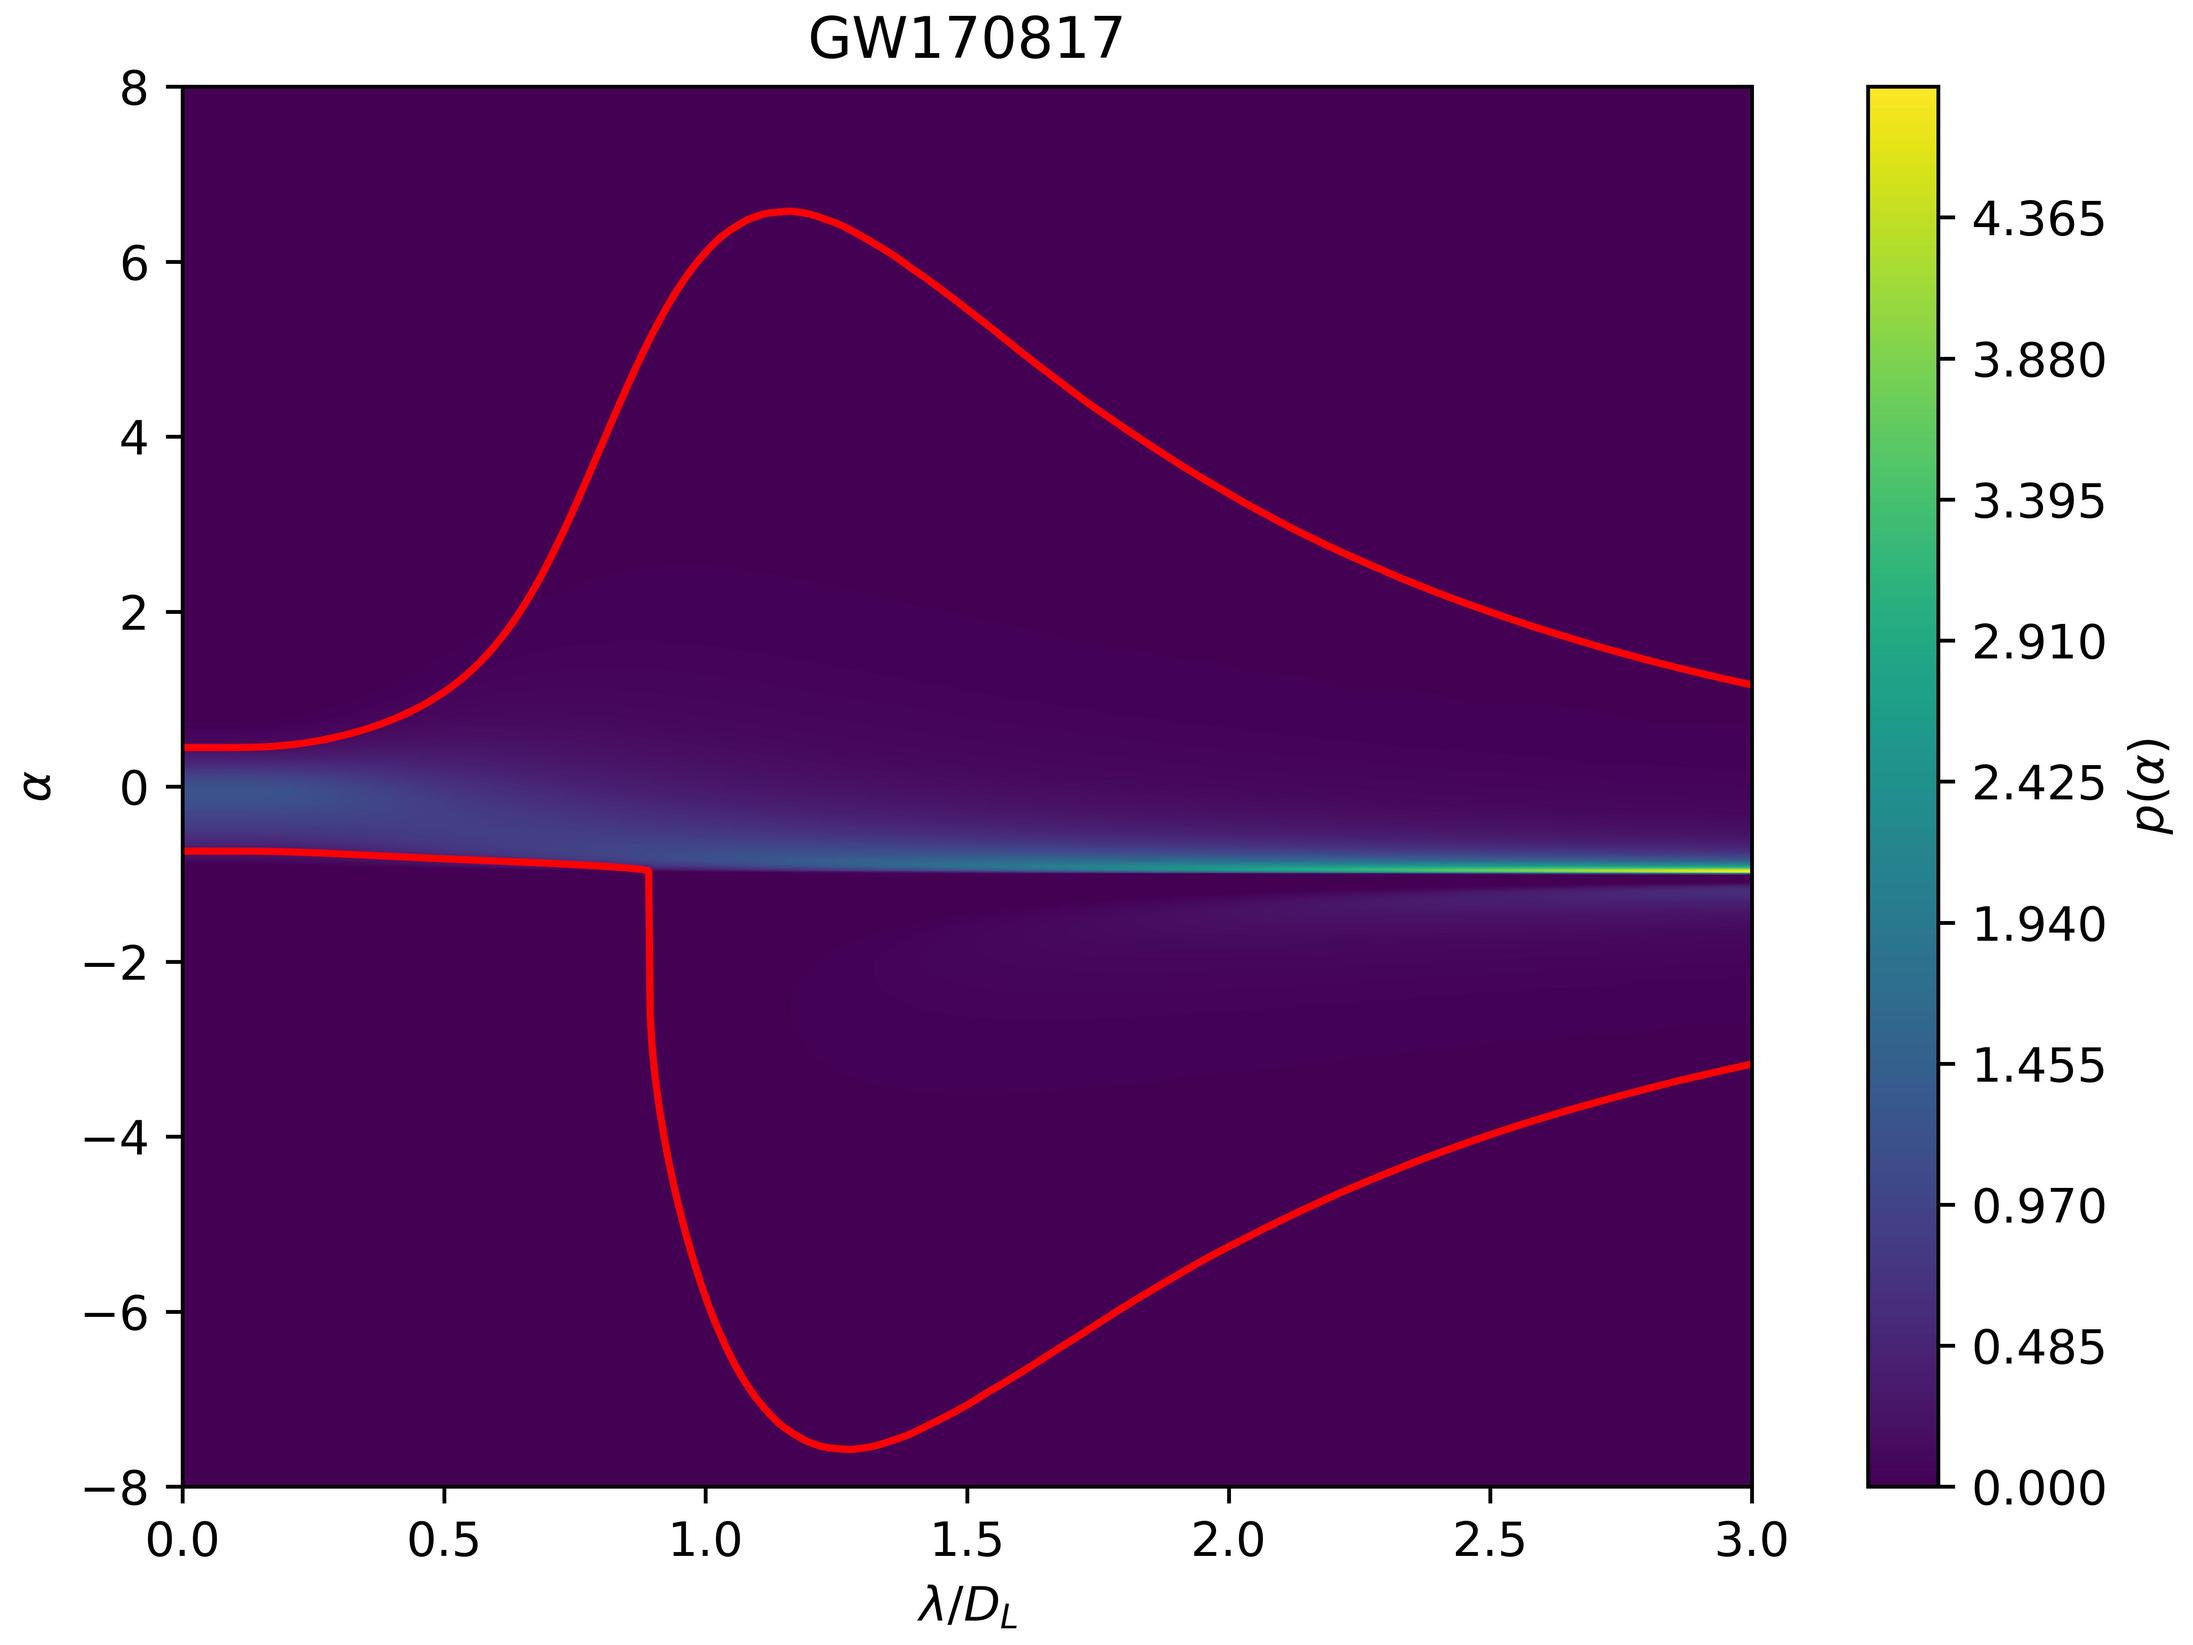
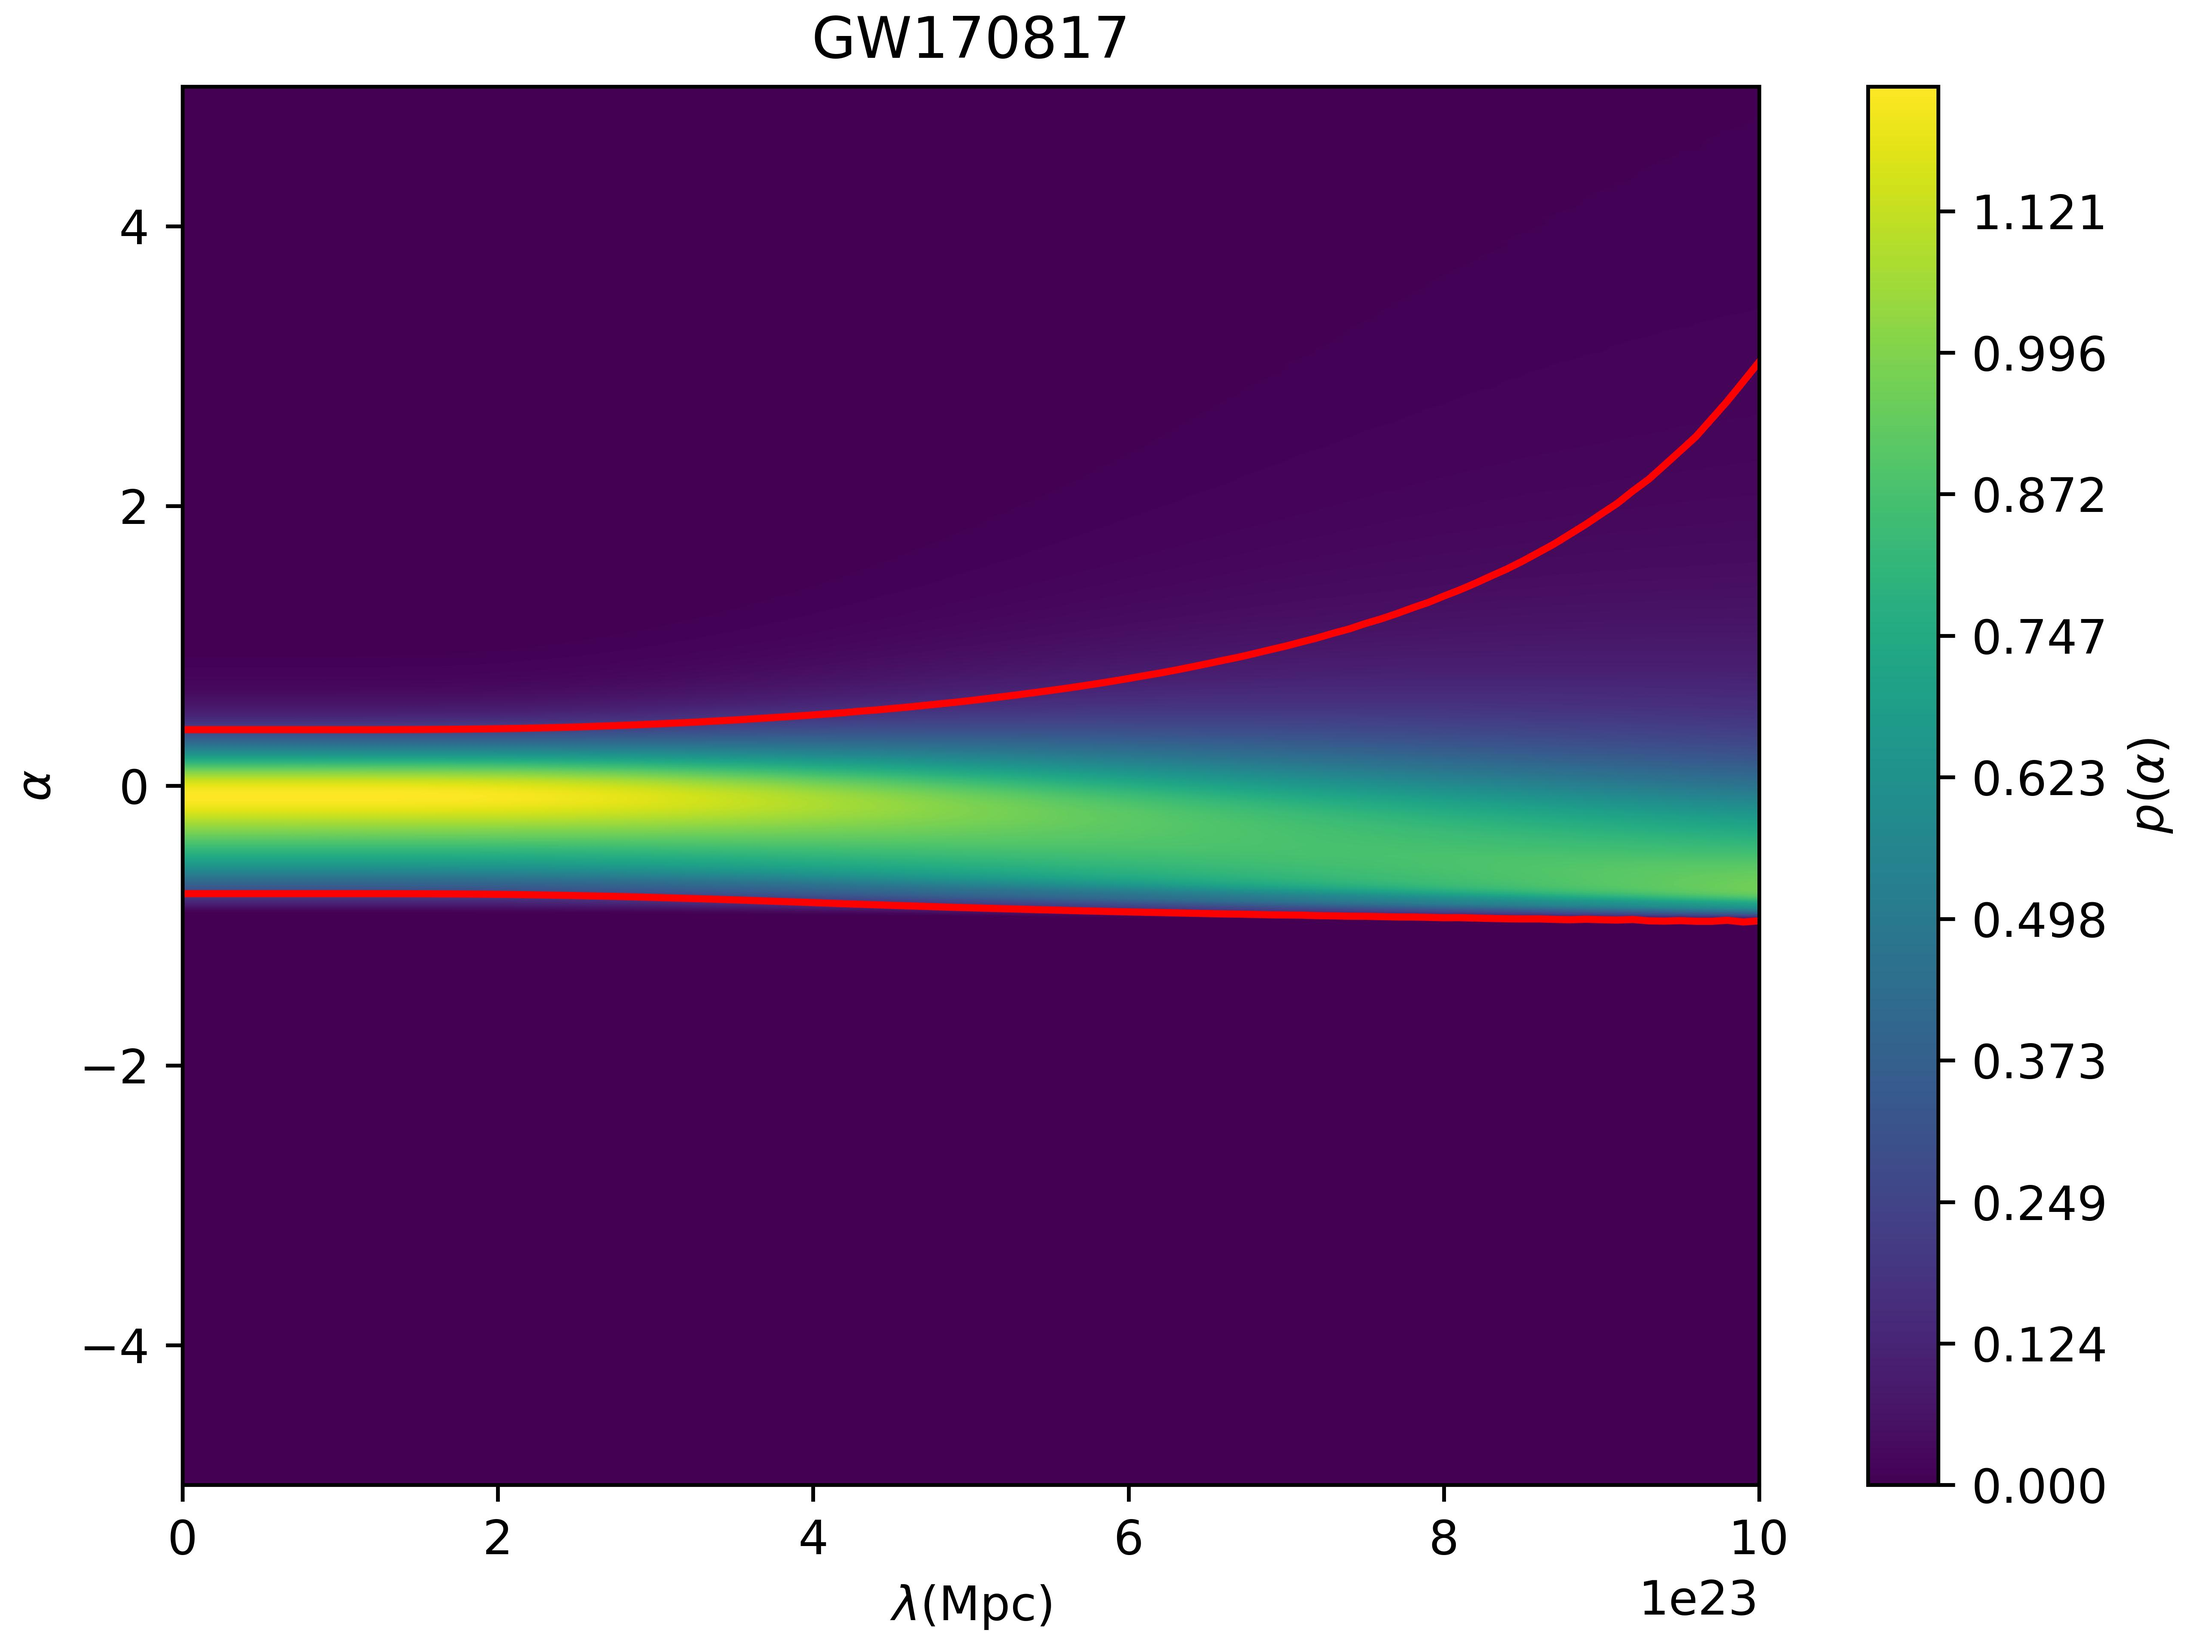
limit plot2

diff --git a/plot2.py b/plot2.py
@@ -4,12 +4,66 @@ import matplotlib.pyplot as plt
 
 plt.subplots(layout='constrained')
 
+from astropy.units import Mpc, m
+Mpc2m = ((1*Mpc).to(m)).value
+
 f = h5py.File('GW170817_GWTC-1.hdf5', 'r')
 dset = f['IMRPhenomPv2NRT_lowSpin_posterior']
-d_l = dset['luminosity_distance_Mpc']
-size = d_l.size**2
-sample = (np.random.choice(d_l, size=size)
-         /np.random.normal(loc=42.9, scale=3.2, size=size))**2
+d_l_gw = dset['luminosity_distance_Mpc']
+size = d_l_gw.size**2
+d_l_samples = np.random.normal(loc=42.9*Mpc2m, scale=3.2*Mpc2m, size=size)
+g_samples = (np.random.choice(d_l_gw*Mpc2m, size=size)/d_l_samples)**2
+
+from scipy.optimize import brentq
+def dpap(alpha, p):
+    return np.interp(alpha, a, p_a, left=0, right=0)-p
+lamdas, alphas = np.linspace(0, 1e24, 101), np.linspace(-5, +5, 1001)
+p_alphas = np.empty((alphas.size, lamdas.size))
+a_min, a_max = np.empty(lamdas.size), np.empty(lamdas.size)
+for i in range(lamdas.size):
+    print(i)
+    l = lamdas[i]
+    if (l == 0):
+        e_samples = np.zeros_like(d_l_samples)
+    else:
+        e_samples = np.array((1+d_l_samples/l)*np.exp(-d_l_samples/l))
+    a_samples = -((1-g_samples)/(1-g_samples*e_samples))
+    a_samples = a_samples[(np.abs(a_samples) < 5)]
+    bin_edges = np.histogram_bin_edges(a_samples, bins='auto')
+    print(bin_edges.size-1)
+    hist, bin_edges = np.histogram(
+                          a_samples, bins=int(bin_edges.size/8), density=True)
+    a, p_a = (bin_edges[:-1]+bin_edges[+1:])/2, hist
+    p_alphas[:,i] = np.interp(alphas, a, p_a, left=0, right=0)
+    a_top = a[(p_a == p_a.max())][0]
+    P, p, n = 1, 0, 0
+    while (abs(P-0.95) >= 0.0001):
+        n += 1
+        if (P < 0.95):
+            p -= p_a.max()/2**n
+        if (P > 0.95):
+            p += p_a.max()/2**n
+        a_1 = brentq(dpap, -5, a_top, args=(p,))
+        a_2 = brentq(dpap, a_top, +5, args=(p,))
+        P = np.sum(np.all(((a_samples > a_1), (a_samples < a_2)), axis=0))/size
+        if (n == 50): print('!'); break
+    a_min[i], a_max[i] = a_1, a_2
+    if (l == lamdas.max()):
+        p = p_a[(a < -1/((1+(42.9*Mpc2m)/l)*np.exp(-(42.9*Mpc2m)/l)))].max()
+        a_1 = brentq(dpap, -5, a_top, args=(p,))
+        a_2 = brentq(dpap, a_top, +5, args=(p,))
+        P = np.sum(np.all(((a_samples > a_1), (a_samples < a_2)), axis=0))/size
+        print(P)
+qcs = plt.contourf(lamdas, alphas, p_alphas, levels=1001)
+plt.colorbar(qcs, label='$p(\\alpha)$')
+plt.plot(lamdas, a_min, c='red')
+plt.plot(lamdas, a_max, c='red')
+plt.title('GW170817')
+plt.xlabel('$\\lambda$(Mpc)')
+plt.ylabel('$\\alpha$')
+plt.savefig('plot2.jpg', dpi=800)
+
+'''
 hist, bin_edges = np.histogram(sample, bins='auto', density=True)
 print(bin_edges.size-1)
 hist, bin_edges = np.histogram(sample, bins=int(bin_edges.size/8), density=True)
@@ -126,3 +180,4 @@ plt.title('GW170817')
 plt.xlabel('$\\lambda/D_L$')
 plt.ylabel('$\\alpha$')
 plt.show()
+'''

diff --git a/plot1.py b/plot1.py
@@ -14,6 +14,7 @@ hist, bin_edges = np.histogram(sample, bins='auto', density=True)
 print(bin_edges.size-1)
 hist, bin_edges = np.histogram(sample, bins=int(bin_edges.size/8), density=True)
 g, p_g = (bin_edges[:-1]+bin_edges[+1:])/2, hist
+print(g[(p_g == p_g.max())][0])
 
 def P_normal(p):
     P = 1
@@ -60,4 +61,4 @@ plt.ylim((-0.10, +1.35))
 plt.xlabel('$G_s/G$')
 plt.ylabel('$p(G_s/G)$')
 plt.grid()
-plt.show()
+plt.savefig('plot1.jpg', dpi=800)
